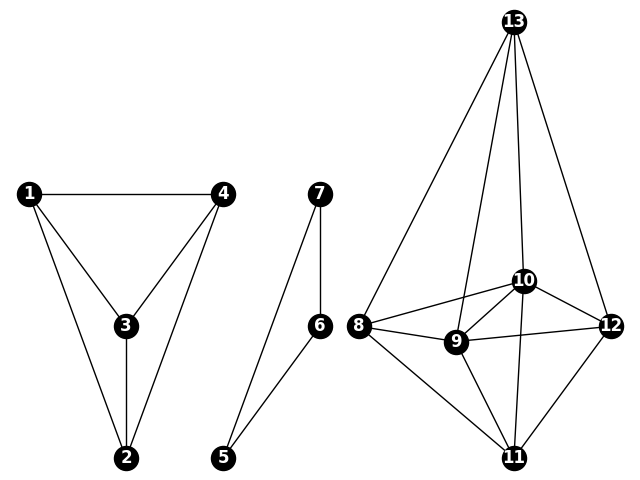
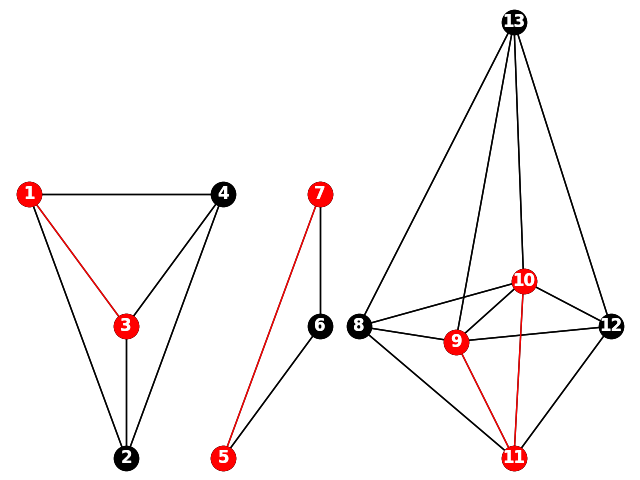
version 7.0

diff --git a/new.py b/new.py
@@ -65,7 +65,7 @@ def part3_4():
     """)
     tmp_node=new_edges(tmp_edges_global)
     nx.draw_networkx_nodes(G, pos=set_own_pos(), nodelist=tmp_node, node_color='r')
-    # plt.savefig('diam.png')
+
 
 
 
@@ -90,13 +90,15 @@ PART 2
 
 nx.draw(G, pos=set_own_pos(), with_labels=True, font_weight='bold', node_color="black", edge_color="black",
         font_color="w")
-
+plt.savefig('processed.png')
+plt.show()
+plt.close()
 """
 PART 3-4
 """
 
 part3_4()
-# plt.savefig('processed.png')
+plt.savefig('diam.png')
 plt.show()
 plt.close()
 """
@@ -106,6 +108,6 @@ tmp_edges = []
 for el in (nx.dfs_edges(G)):
     tmp_edges.append(el)
 new_edges(tmp_edges)
-# plt.savefig('forest.png')
+plt.savefig('forest.png')
 plt.show()
 plt.close()
